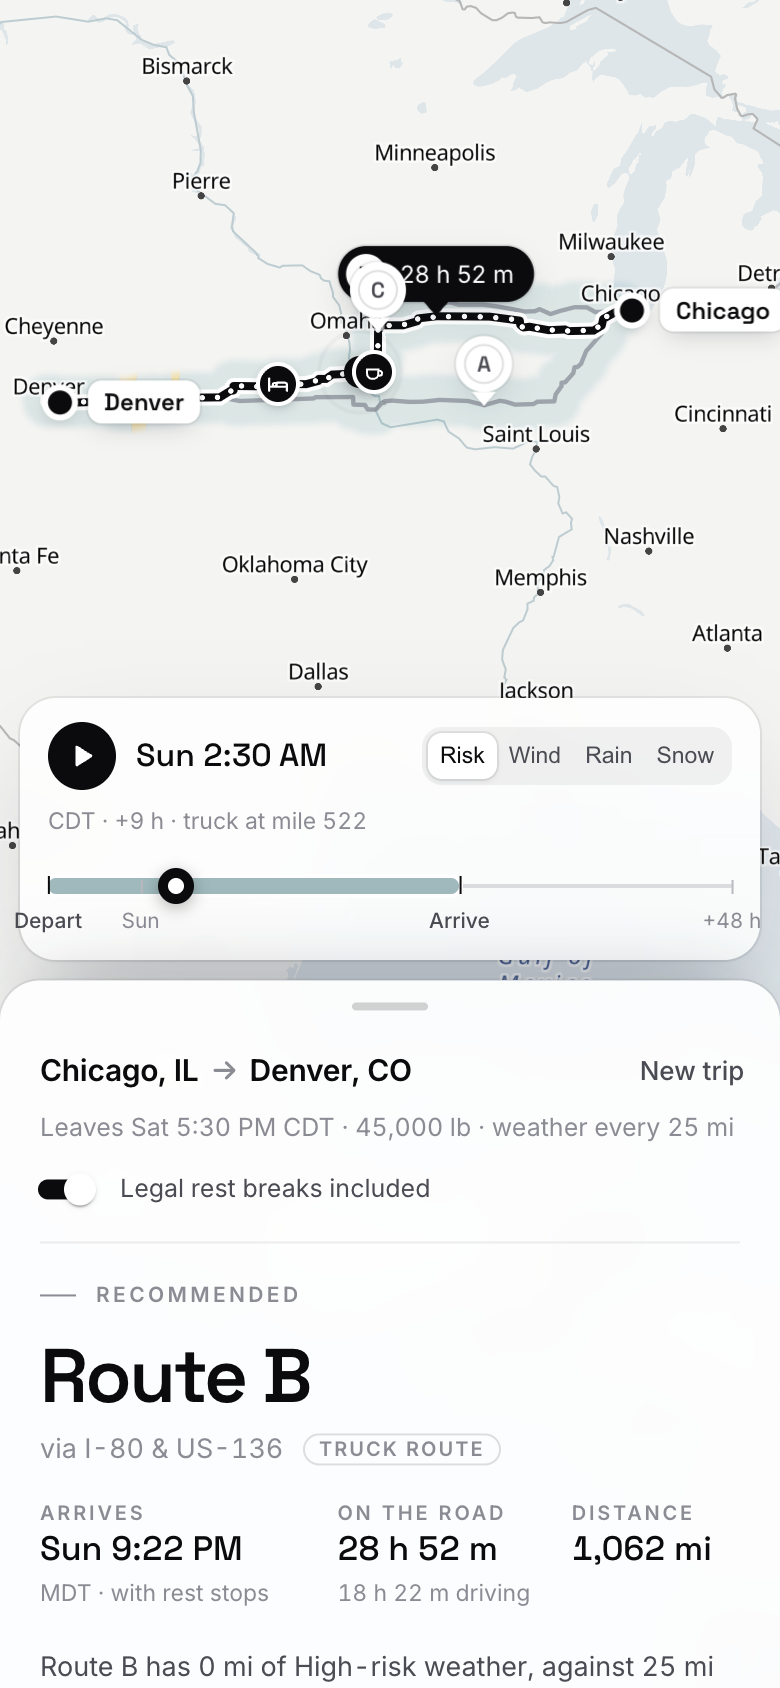
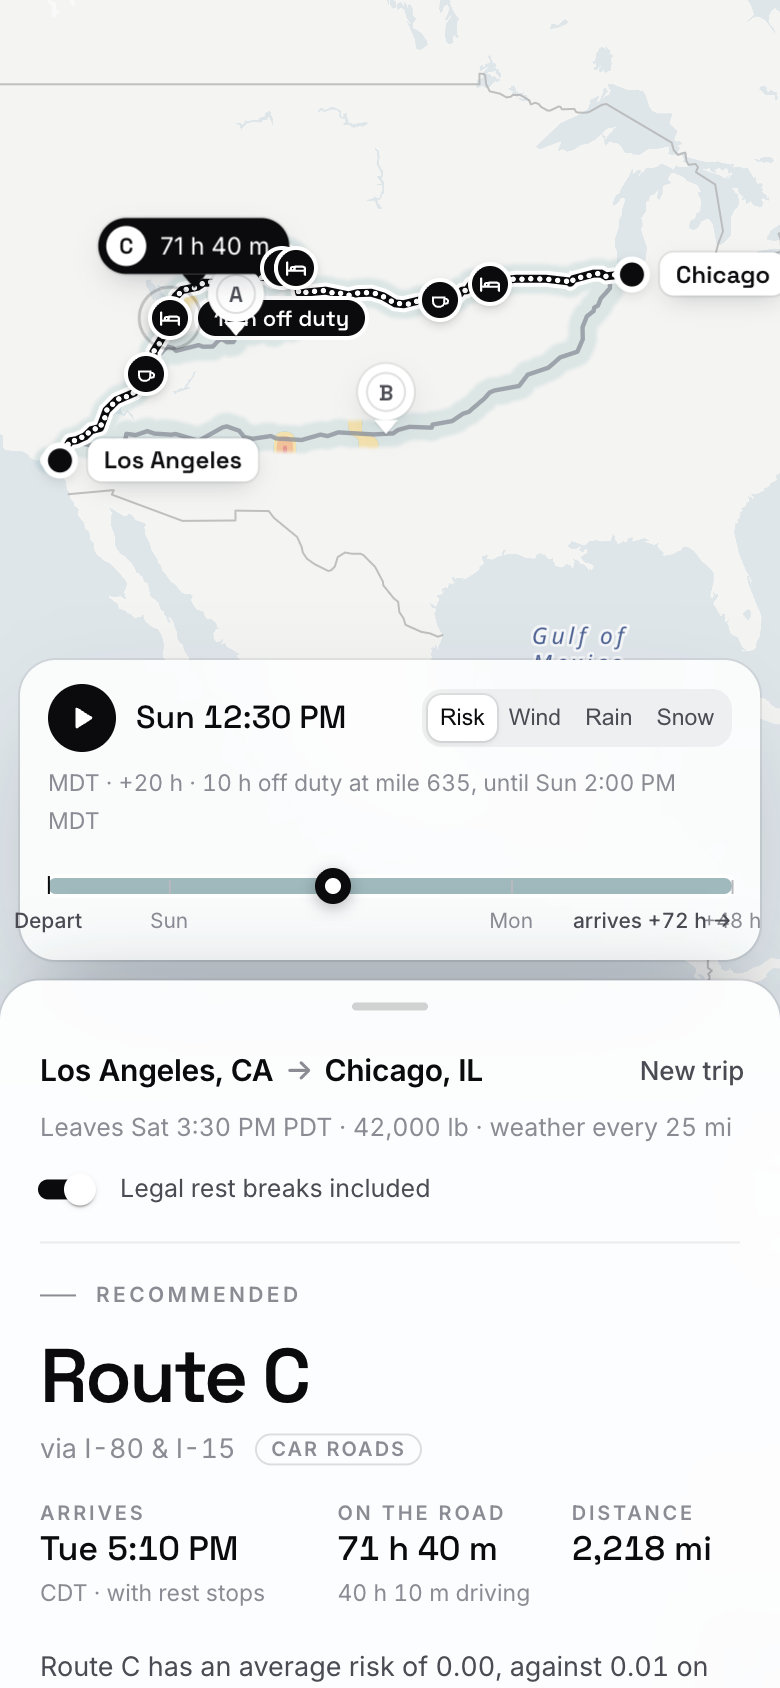
README: screenshots of Los Angeles to Chicago

diff --git a/README.md b/README.md
@@ -4,7 +4,7 @@ Pick the safest truck route, judged by the weather **at the hour the truck reach
 
 **[Live app](https://weather-truck-routing-ashy.vercel.app)** · **[Video walkthrough](https://www.loom.com/share/bab76d77d2a248faa9c6b97733fd833f)** · React + Django · try a sample trip
 
-![Chicago to Denver: three routes, the recommendation and why, rest stops, and the weather heatmap 9 hours after departure](docs/desktop.png)
+![Los Angeles to Chicago: three routes, the recommendation and why, rest stops, and the weather heatmap 20 hours after departure](docs/desktop.png)
 
 <p align="center"><img src="docs/phone.png" width="280" alt="On a phone: the map, the compact slider and the plan in a bottom sheet"></p>
 
